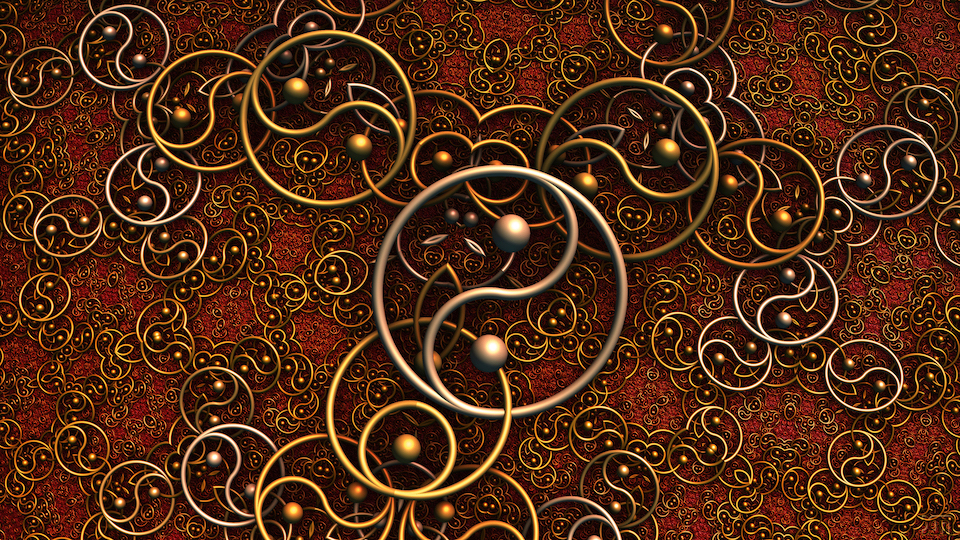
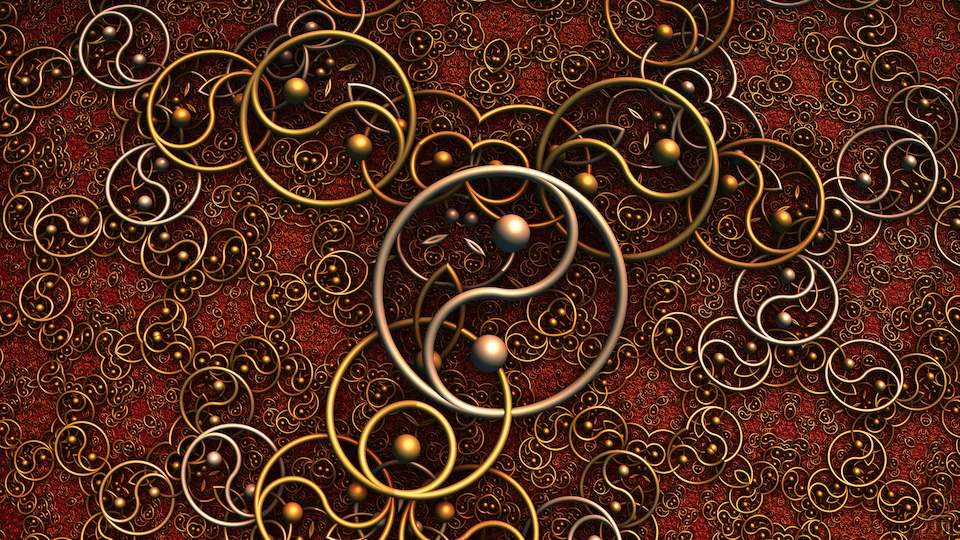
reorder/update/fix TOC throughout doc * resize pics

diff --git a/_posts/2017-10-13-speed-of-thought-social-physics.md b/_posts/2017-10-13-speed-of-thought-social-physics.md
@@ -12,6 +12,8 @@ excerpt: ""
 
 [^pos-sensitive-propagation]: [Position-sensitive propagation of information on social media using social physics approach](https://arxiv.org/abs/1706.00569), Ishii A., Mizuno T., Kawahata Y., arXiv:1706.00569 [physics.soc-ph] (2017)
 
+[^interaction-and-influence]: [A multilayer network dataset of interaction and influence spreading in a virtual world], J. Jankowski, R. Michalski, P. Bródka, arXiv:1702.06373 [cs.SI] DOI [10.1038/sdata.2017.144](https://doi.org/10.1038/sdata.2017.144) (2017)
+
 [^configuration-entropy-of-a-landscape]: [Calculating the configurational entropy of a landscape mosaic](https://www.fs.fed.us/rm/pubs_journals/2016/rmrs_2016_cushman_s001.pdf) Samuel A. Cushman, Landscape Ecol (2016) 31:481–489, DOI 10.1007/s10980-015-0305-2
 
 [^social-media-with-exogenous-networks]: [Link Classification and Tie Strength Ranking in Online Social Networks with Exogenous Interaction Networks](https://arxiv.org/abs/1708.04030), M. Abufouda, K. Zweig, arXiv:1708.04030 [cs.SI] (2017)
@@ -19,6 +21,7 @@ excerpt: ""
 [^increasing-knowledge-worker-efficiency]: [Increasing Knowledge Worker Efficiency through a "Virtual Mirror" of the Social Network](https://arxiv.org/abs/1308.1162), Stori Hybbeneth, Dirk Brunnberg, Peter A. Gloor, arXiv:1308.1162 [cs.SI] (2013)
 
 [^graph-based-time-series-analysis]: [Visibility Graph Based Time Series Analysis](https://doi.org/10.1371/journal.pone.0143015) Stephen Mutua, Gu C, Yang H, PLoS ONE10(11): e0143015 (2015)
+
 
 - TODO: capitalization rules for titles: argh wtf how many times?!
 
@@ -136,27 +139,37 @@ excerpt: ""
 
 #### X &#8855; &#8710; &#8968;vii&#8969; [To Hedge Against Domain Complexity, Agents Amplify Perceived Beliefs And Interact In Other Ways](#to-hedge-against-domain-complexity-agents-amplify-perceived-beliefs)
 
-#### &#8855; &#8710; &#8968;viii&#8969; [For Timescales Both Small and Large, Each Agent's State and Context Is Constructed From Their Sum Of Experience Via Directed Focus](#each-agents-state-and-context-is-constructed-from-their-sum-of-experience-via-directed-focus)
+#### &#8855; &#8710; &#8968;viii&#8969; [Spectral Coherence of Knowledge, Information and Agent Context Strongly Influences Conceptualization and Anticipation](#spectral-coherence-of-knowledge-information-and-agent-context-strongly-influences-conceptualization-and-anticipation)
 
-#### &#8855; &#8710; &#8968;ix&#8969; [Spectral Coherence of Knowledge, Information and Agent Context Strongly Influences Conceptualization and Anticipation](#spectral-coherence-of-knowledge-information-and-agent-context-strongly-influences-conceptualization-and-anticipation)
+#### &#8855; &#8710; &#8968;ix&#8969; [Social Circuitry Enables Sociophysical Energy Flows, Where The Superposition Principle Applies Circuit and Network Topologies. All Exist Simultaneously](#social-circuitry-enables-sociophysical-energy-flows-where-the-superposition-principle-applies-to-circuit-and-network-topologies)
 
-#### &#8855; &#8710; &#8968;x&#8969; [The Evolutionary Dynamics of Social Physics Build Upon Antifragility and the Ideas of Programs in Chaos](#the-evolutionary-dynamics-of-social-physics-build-upon-antifragility-and-the-ideas-of-programs-in-chaos)
+#### &#8855; &#8710; &#8968;x&#8969; [Social, Financial and Other Energetic Flows Signal Interest and Intent Via Frequency, Magnitude and Abstract Spectral Decomposition](#social-financial-and-other-energetic-flows-signal-interest-and-intent-via-frequency-magnitude-and-abstract-spectral-decomposition)
 
-#### &#8855; &#8710; &#8968;xi&#8969; [Social Circuitry Enables Sociophysical Energy Flows, Where The Superposition Principle Applies Circuit and Network Topologies. All Exist Simultaneously](#social-circuitry-enables-sociophysical-energy-flows-where-the-superposition-principle-applies-to-circuit-and-network-topologies)
 
-#### &#8855; &#8710; &#8968;xii&#8969; [Social, Financial and Other Energetic Flows Signal Interest and Intent Via Frequency, Magnitude and Abstract Spectral Decomposition](#social-financial-and-other-energetic-flows-signal-interest-and-intent-via-frequency-magnitude-and-abstract-spectral-decomposition)
 
-#### &#8855; &#8710; &#8968;xiii&#8969; [Disruption of Connections & Interactions Alters Flow Of Energy & Power, Physically, Logically and Virtually](#disruption-of-connections-and-interactions-alters-flow-of-energy-and-power-physically-logically-and-virtually)
+#### &#8855; &#8710; &#8968;xi&#8969; [Disruption of Connections & Interactions Alters Flow Of Energy & Power, Physically, Logically and Virtually](#disruption-of-connections-and-interactions-alters-flow-of-energy-and-power-physically-logically-and-virtually)
 
-#### &#8855; &#8710; &#8968;xiv&#8969; [Even When Invisible, Intent is Signified And Clarified By Parallel, Anti-Parallel and Orthogonal Orientations of Motion As They Relate to Laplacian of High-Dimensional Surfaces](#even-when-invisible-intent-is-signified-and-clarified-by-parallel-antiparallel-and-orthogonal-orientations-of-motion-as-they-relate-to-laplacian-of-high-dimensional-surfaces)
 
-#### &#8855; &#8710; &#8968;xv&#8969; [Everything is a particle. Everything is a Wave. Even Information, Modeled Holonically](#everything-is-a-particle-everything-is-a-wave-even-information-modeled-holonically)
+#### &#8855; &#8710; &#8968;xii&#8969; [Even When Invisible, Intent is Signified And Clarified By Parallel, Anti-Parallel and Orthogonal Orientations of Motion As They Relate to Laplacian of High-Dimensional Surfaces](#even-when-invisible-intent-is-signified-and-clarified-by-parallel-antiparallel-and-orthogonal-orientations-of-motion-as-they-relate-to-laplacian-of-high-dimensional-surfaces)
 
-#### &#8855; &#8710; &#8968;xvi&#8969; [Independence and Connectedness Can Be Measured In Sociophysical Network Topologies](#independence-and-connectedness-can-be-measured-in-sociophysical-network-topologies)
 
-### X &#8855; &#8710; &#8968;####&#8969; [For The Efficient and Pragmatic Assertion of Behavior and Intent, Sociophysical Configuration Entropy is Nearly Unparalleled](#for-the-efficient-and-pragmatic-assertion-of-behavior-and-intent-sociophysical-configuration-entropy-is-nearly-unparalleled)
+#### &#8855; &#8710; &#8968;xiii&#8969; [Equilibria In Social Games](#)
 
-#### &#8855; &#8710; &#8968;xvii&#8969; [Information In Holonic, Particle Form Exhibits Complicated Behavior Analogous To Entanglement](#information-in-holonic-particle-form-exhibits-complicated-behavior-analogous-to-entanglement)
+- TODO: change title for (xiii)
+
+#### &#8855; &#8710; &#8968;xiv&#8969; [The Evolutionary Dynamics of Social Physics Build Upon Antifragility and the Ideas of Programs in Chaos](#the-evolutionary-dynamics-of-social-physics-build-upon-antifragility-and-the-ideas-of-programs-in-chaos)
+
+#### &#8855; &#8710; &#8968;xv&#8969; [For Timescales Both Small and Large, Each Agent's State and Context Is Constructed From Their Sum Of Experience Via Directed Focus](#each-agents-state-and-context-is-constructed-from-their-sum-of-experience-via-directed-focus)
+
+#### &#8855; &#8710; &#8968;xvi&#8969; [Everything is a particle. Everything is a Wave. Even Information, Modeled Holonically](#everything-is-a-particle-everything-is-a-wave-even-information-modeled-holonically)
+
+### &#8855; &#8710; &#8968;xvii&#8969; [Models of Sociophysical Phase Change Require Topological Spaces Imbued Onto Physical and Aphysical Topologies](#models-of-sociophysical-phase-change-require-topological-spaces-imbued-onto-physical-and-aphysical-topologies)
+
+#### &#8855; &#8710; &#8968;xviii&#8969; [Independence and Connectedness Can Be Measured In Sociophysical Network Topologies](#independence-and-connectedness-can-be-measured-in-sociophysical-network-topologies)
+
+### < &#8855; &#8710; &#8968;xix&#8969; [For The Efficient and Pragmatic Assertion of Behavior and Intent, Sociophysical Configuration Entropy is Nearly Unparalleled](#for-the-efficient-and-pragmatic-assertion-of-behavior-and-intent-sociophysical-configuration-entropy-is-nearly-unparalleled)
+
+#### &#8855; &#8710; &#8968;xx&#8969; [Information In Holonic, Particle Form Exhibits Complicated Behavior Analogous To Entanglement](#information-in-holonic-particle-form-exhibits-complicated-behavior-analogous-to-entanglement)
 
 ## Now With References... Scroll Down For Footnotes and Bibliography
 
@@ -1042,7 +1055,7 @@ secrecy can be post-justified as variable control.
 
 <a name="spectral-coherence-of-knowledge-information-and-agent-context-strongly-influences-conceptualization-and-anticipation" />
 
-### &#8855; &#8710; &#8968;ix&#8969; [Spectral Coherence of Knowledge, Information and Agent Context Strongly Influences Conceptualization and Anticipation](#spectral-coherence-of-knowledge-information-and-agent-context-strongly-influences-conceptualization-and-anticipation)
+### &#8855; &#8710; &#8968;viii&#8969; [Spectral Coherence of Knowledge, Information and Agent Context Strongly Influences Conceptualization and Anticipation](#spectral-coherence-of-knowledge-information-and-agent-context-strongly-influences-conceptualization-and-anticipation)
 
 - the inability to scalably model or to even ascertain pieces of
   information, which are sometimes unindexable if no rigid schema can
@@ -1112,7 +1125,7 @@ one another as truly equal before an omnipotent, omniscient being.
 
 <a name="social-circuitry-enables-sociophysical-energy-flows-where-the-superposition-principle-applies-to-circuit-and-network-topologies" />
 
-### &#8855; &#8710; &#8968;xi&#8969; [Social Circuitry Enables Sociophysical Energy Flows, Where The Superposition Principle Applies Circuit and Network Topologies. All Exist Simultaneously](#social-circuitry-enables-sociophysical-energy-flows-where-the-superposition-principle-applies-to-circuit-and-network-topologies)
+### &#8855; &#8710; &#8968;ix&#8969; [Social Circuitry Enables Sociophysical Energy Flows, Where The Superposition Principle Applies Circuit and Network Topologies. All Exist Simultaneously](#social-circuitry-enables-sociophysical-energy-flows-where-the-superposition-principle-applies-to-circuit-and-network-topologies)
 
 - many networks superimposed onto other, more primary, phsyical and
   aphysical networks.
@@ -1133,7 +1146,7 @@ one another as truly equal before an omnipotent, omniscient being.
 
 #### A Graph Based
 
-![Visibility Graph Based Time Series Analysis]()
+![Visibility Graph Based Time Series Analysis](social-circuits.jpg)
 
 - (describe...)
  
@@ -1216,7 +1229,7 @@ anything to happen.
 
 <a name="social-financial-and-other-energetic-flows-signal-interest-and-intent-via-frequency-magnitude-and-abstract-spectral-decomposition" />
 
-#### &#8855; &#8710; &#8968;xii&#8969; [Social, Financial and Other Energetic Flows Signal Interest and Intent Via Frequency, Magnitude and Abstract Spectral Decomposition](#social-financial-and-other-energetic-flows-signal-interest-and-intent-via-frequency-magnitude-and-abstract-spectral-decomposition)
+#### &#8855; &#8710; &#8968;x&#8969; [Social, Financial and Other Energetic Flows Signal Interest and Intent Via Frequency, Magnitude and Abstract Spectral Decomposition](#social-financial-and-other-energetic-flows-signal-interest-and-intent-via-frequency-magnitude-and-abstract-spectral-decomposition)
 
 At the micro and macro level similar information dynamics facilitate
 inference via financial and social capital flows. In macroeconomics, a
@@ -1317,7 +1330,7 @@ an inordinate amount of energy to undo.
 
 <a name="disruption-of-connections-and-interactions-alters-flow-of-energy-and-power-physically-logically-and-virtually" />
 
-#### &#8855; &#8710; &#8968;xiii&#8969; [Disruption of Connections & Interactions Alters Flow Of Energy & Power, Physically, Logically and Virtually](#disruption-of-connections-and-interactions-alters-flow-of-energy-and-power-physically-logically-and-virtually)
+#### &#8855; &#8710; &#8968;xi&#8969; [Disruption of Connections & Interactions Alters Flow Of Energy & Power, Physically, Logically and Virtually](#disruption-of-connections-and-interactions-alters-flow-of-energy-and-power-physically-logically-and-virtually)
 
 - (here, focus on imagery related to electrical systems)
 
@@ -1373,7 +1386,7 @@ For
 
 <a name="even-when-invisible-intent-is-signified-and-clarified-by-parallel-antiparallel-and-orthogonal-orientations-of-motion-as-they-relate-to-laplacian-of-high-dimensional-surfaces" />
 
-#### &#8855; &#8710; &#8968;xiv&#8969; [Even When Invisible, Intent is Signified And Clarified By Parallel, Anti-Parallel and Orthogonal Orientations of Motion As They Relate to Laplacian of High-Dimensional Surfaces](#even-when-invisible-intent-is-signified-and-clarified-by-parallel-antiparallel-and-orthogonal-orientations-of-motion-as-they-relate-to-laplacian-of-high-dimensional-surfaces)
+#### &#8855; &#8710; &#8968;xii&#8969; [Even When Invisible, Intent is Signified And Clarified By Parallel, Anti-Parallel and Orthogonal Orientations of Motion As They Relate to Laplacian of High-Dimensional Surfaces](#even-when-invisible-intent-is-signified-and-clarified-by-parallel-antiparallel-and-orthogonal-orientations-of-motion-as-they-relate-to-laplacian-of-high-dimensional-surfaces)
 
 - this helps indicate intent, even when it was hidden
   - consistency is hard to fake, any duplicity exacerbates this and
@@ -1415,8 +1428,11 @@ For
         contrast between that truth and the sea of disinformation
         gives you the smoke that indicates fire
 
-### &#8855; &#8710; &#8968;####&#8969; Equilibria in Social Games
 
+
+- TODO: update title
+
+### &#8855; &#8710; &#8968;xiii&#8969; [Equilibria in Social Games](#)
 
 - content from "facets: systems-theory"
   - this content is poorly outlined. where else do i have this?
@@ -1439,7 +1455,7 @@ For
 
 <a name="the-evolutionary-dynamics-of-social-physics-build-upon-antifragility-and-the-ideas-of-programs-in-chaos" />
 
-#### &#8855; &#8710; &#8968;x&#8969; [The Evolutionary Dynamics of Social Physics Build Upon Antifragility and the Ideas of Programs in Chaos](#the-evolutionary-dynamics-of-social-physics-build-upon-antifragility-and-the-ideas-of-programs-in-chaos)
+#### &#8855; &#8710; &#8968;xiv&#8969; [The Evolutionary Dynamics of Social Physics Build Upon Antifragility and the Ideas of Programs in Chaos](#the-evolutionary-dynamics-of-social-physics-build-upon-antifragility-and-the-ideas-of-programs-in-chaos)
 
 What is probabilistic programming? What are programs in chaos?
 [This article](http://te.xel.io/posts/2017-09-14-awareness-precipitates-from-order-out-of-chaos.html)
@@ -1531,7 +1547,7 @@ disintegrate.
 
 <a name="each-agents-state-and-context-is-constructed-from-their-sum-of-experience-via-directed-focus" />
 
-### &#8855; &#8710; &#8968;viii&#8969; [For Timescales Both Small and Large, Each Agent's State and Context Is Constructed From Their Sum Of Experience Via Directed Focus](#each-agents-state-and-context-is-constructed-from-their-sum-of-experience-via-directed-focus)
+### &#8855; &#8710; &#8968;xv&#8969; [For Timescales Both Small and Large, Each Agent's State and Context Is Constructed From Their Sum Of Experience Via Directed Focus](#each-agents-state-and-context-is-constructed-from-their-sum-of-experience-via-directed-focus)
 
 In social physics, all SOF biophysical entities exist in the same
 shared physical space. Their minds are like individual boltzmann
@@ -1584,9 +1600,9 @@ with arbitrary notions of temperature and sociophysical energy.
       - when this is done to the extreme, it results in the utter and
         total deterioration of their support network.
 
-#### (Stage Magician)
+#### When A Stage Magician Pulls A Rabbit Out Of A Hat, That's [Kantian Category](https://en.wikipedia.org/wiki/Category_(Kant)) Collapse ... *WHAT'S IN THE BOX?*
 
-![Stage Magician]()
+<iframe width="560" height="315" src="https://www.youtube.com/embed/TtTzTYDUwvQ" frameborder="0" allowfullscreen></iframe>
 
 - so, directing their focus changes the range of experiential
   information relevant to their context. combined with signaling and
@@ -1595,7 +1611,7 @@ with arbitrary notions of temperature and sociophysical energy.
 
 <a name="everything-is-a-particle-everything-is-a-wave-even-information-modeled-holonically" />
 
-### &#8855; &#8710; &#8968;xv&#8969; [Everything is a particle. Everything is a Wave. Even Information, Modeled Holonically](#everything-is-a-particle-everything-is-a-wave-even-information-modeled-holonically)
+### &#8855; &#8710; &#8968;xvi&#8969; [Everything is a particle. Everything is a Wave. Even Information, Modeled Holonically](#everything-is-a-particle-everything-is-a-wave-even-information-modeled-holonically)
 
 In chaotic sociophysical systems, entities and information can be
 conceived as incomprehensibly complex analogies of the same
@@ -1611,7 +1627,7 @@ what your mind is made of.
   waves. further still, the transmission of physical pheneomena also
   drive ripples of information through sociophysical networks.
 
-![The Wave in a stadium]()
+![The Wave in a stadium](the-wave.gif)
 
 - if there is a spectral (understanding) of information-graphs, as
   ellusive as a visual conception might be, then surely a momentary
@@ -1632,13 +1648,13 @@ what your mind is made of.
 
 <a name="models-of-sociophysical-phase-change-require-topological-spaces-imbued-onto-physical-and-aphysical-topologies" />
 
-### &#8855; &#8710; &#8968;###&#8969; [Models of Sociophysical Phase Change Require Topological Spaces Imbued Onto Physical and Aphysical Topologies](#models-of-sociophysical-phase-change-require-topological-spaces-imbued-onto-physical-and-aphysical-topologies)
+### &#8855; &#8710; &#8968;xvii&#8969; [Models of Sociophysical Phase Change Require Topological Spaces Imbued Onto Physical and Aphysical Topologies](#models-of-sociophysical-phase-change-require-topological-spaces-imbued-onto-physical-and-aphysical-topologies)
 
 
 
 #### Connecting Microstate Energy in [Botlzmann Machines] with Boltzmann's Distribution and Configuration Entropy ...
 
-[Amphiphilic Phases]()
+![Amphiphilic Phases](/img/posts/2017-10-10-speed-of-thought-social-physics/amphiphilic-lcd-phases.jpg)
 
 
 - [gibb's entropy?](https://en.wikipedia.org/wiki/Entropy_(statistical_thermodynamics)#Gibbs_entropy_formula)
@@ -1718,7 +1734,7 @@ what your mind is made of.
 
 <a name="independence-and-connectedness-can-be-measured-in-sociophysical-network-topologies" />
 
-### &#8855; &#8710; &#8968;xvi&#8969; [Independence and Connectedness Can Be Measured In Sociophysical Network Topologies](#independence-and-connectedness-can-be-measured-in-sociophysical-network-topologies)
+### &#8855; &#8710; &#8968;xviii&#8969; [Independence and Connectedness Can Be Measured In Sociophysical Network Topologies](#independence-and-connectedness-can-be-measured-in-sociophysical-network-topologies)
 
 Social isolation correlates strongly with vulnerability, poverty,
 mental illness and the inability to tap into local economic
@@ -1853,7 +1869,7 @@ consequences in my own life.
 
 <a name="for-the-efficient-and-pragmatic-assertion-of-behavior-and-intent-sociophysical-configuration-entropy-is-nearly-unparalleled" />
 
-### &#8855; &#8710; &#8968;####&#8969; [For The Efficient and Pragmatic Assertion of Behavior and Intent, Sociophysical Configuration Entropy is Nearly Unparalleled](#for-the-efficient-and-pragmatic-assertion-of-behavior-and-intent-sociophysical-configuration-entropy-is-nearly-unparalleled)
+### &#8855; &#8710; &#8968;xix&#8969; [For The Efficient and Pragmatic Assertion of Behavior and Intent, Sociophysical Configuration Entropy is Nearly Unparalleled](#for-the-efficient-and-pragmatic-assertion-of-behavior-and-intent-sociophysical-configuration-entropy-is-nearly-unparalleled)
 
 In thermodynamic, biophysical and genetic systems, patterns of change
 and entropy in configurational and conformational distributions
@@ -1956,7 +1972,7 @@ false positives abound.
 
 - in the above, position, field of view and orientation describe
   conformational changes.
-  - configurational entropy is moreso about 
+  - configurational entropy is moreso about
 
 As a sociophysical system progresses, you can keep track of the amount
 of time specific "molecular" configurations of participants spent
@@ -1982,7 +1998,7 @@ means the actual entropy of that solution is highly anomolous.
 
 #### A Random Walk Along the Conformational Free Energy Landscape
 
-![Random Walk Along the Conformational Free Energy Landscape]()
+![Random Walk Along the Conformational Free Energy Landscape](/img/posts/2017-10-10-speed-of-thought-social-physics/free-energy-conformations.jpg)
 
 A molecule's state transitions follow a random walk on the curved
 surface of the energy gradient the current state's Brownian motion
@@ -2012,7 +2028,7 @@ information.
 
 <a name="information-in-holonic-particle-form-exhibits-complicated-behavior-analogous-to-entanglement" />
 
-### &#8855; &#8710; &#8968;xvii&#8969; [Information In Holonic, Particle Form Exhibits Complicated Behavior Analogous To Entanglement](#information-in-holonic-particle-form-exhibits-complicated-behavior-analogous-to-entanglement)
+### &#8855; &#8710; &#8968;xx&#8969; [Information In Holonic, Particle Form Exhibits Complicated Behavior Analogous To Entanglement](#information-in-holonic-particle-form-exhibits-complicated-behavior-analogous-to-entanglement)
 
 - what do you know now? does that change what you think about what you
   knew in the past?
